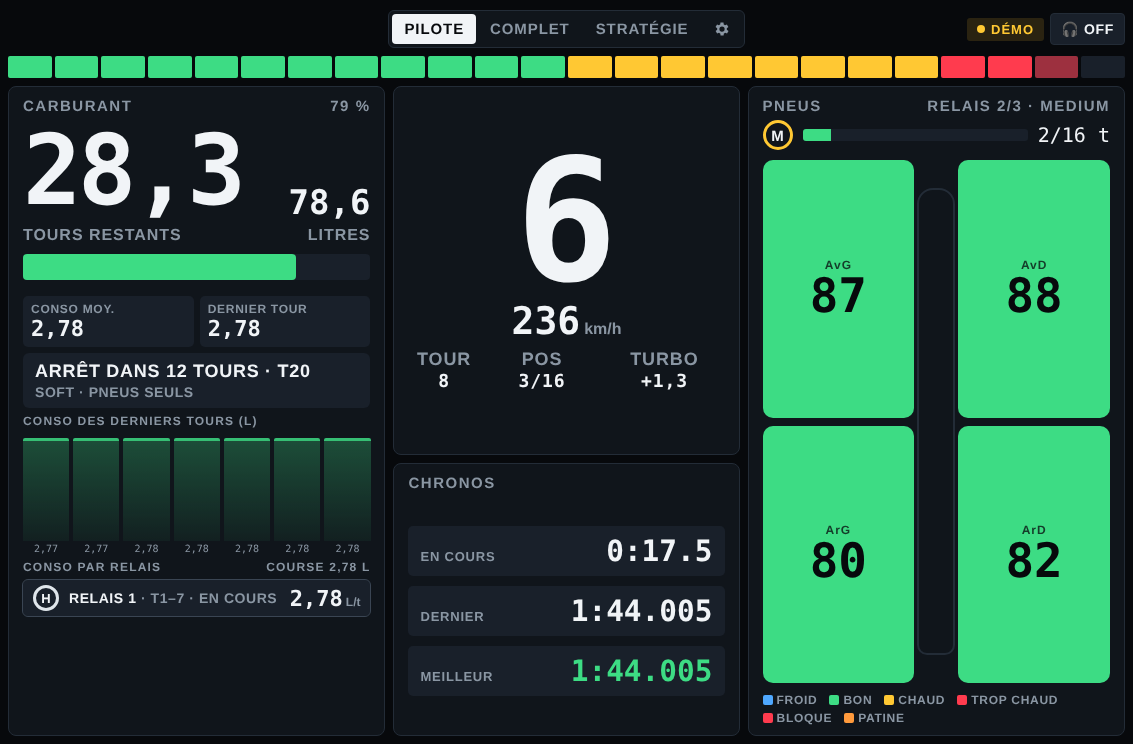
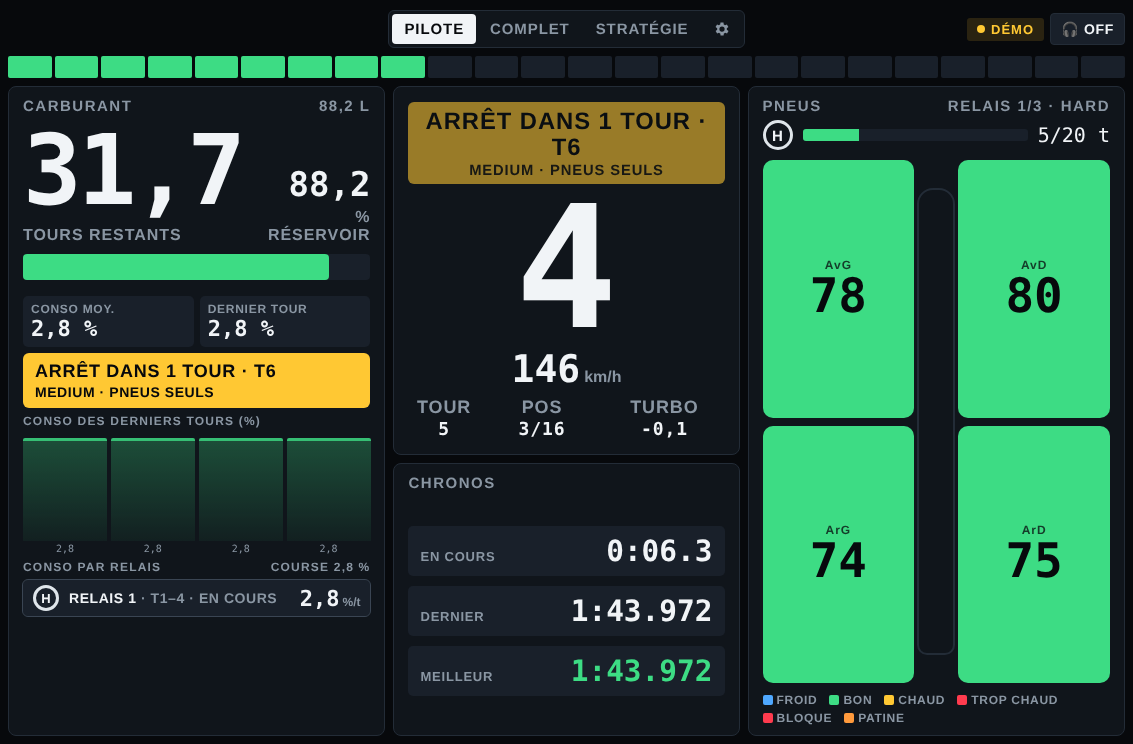
Carburant affiché en % du réservoir, à 1 décimale (Pilote, Complet, voix)
Claude-Session: https://claude.ai/code/session_01BTEhDGdTr51o2wPCPodFJh

diff --git a/race-engineer/web/pilote.html b/race-engineer/web/pilote.html
@@ -209,7 +209,7 @@ nav.tabs3 a:focus-visible{outline:2px solid var(--accent);outline-offset:1px}
     <div class="lbl"><span>Carburant</span><span id="fuelPct">–</span></div>
     <div class="fuelTop">
       <div><div class="big" id="fuelLaps">–</div><div class="unit">tours restants</div></div>
-      <div class="liters"><b id="fuelL">–</b><span class="unit">litres</span></div>
+      <div class="liters"><b id="fuelL">–</b><span class="unit">% réservoir</span></div>
     </div>
     <div class="gauge" id="gauge"><i id="gaugeFill" style="width:0"></i></div>
     <div class="kv">
@@ -217,7 +217,7 @@ nav.tabs3 a:focus-visible{outline:2px solid var(--accent);outline-offset:1px}
       <div><small>Dernier tour</small><b id="consLast">–</b></div>
     </div>
     <div class="stop" id="stop"><span id="stopTitle">Pas de plan</span><small id="stopText">Choisis un plan dans Stratégie</small></div>
-    <div class="lbl histLbl" style="font-size:12px"><span>Conso des derniers tours (L)</span></div>
+    <div class="lbl histLbl" style="font-size:12px"><span>Conso des derniers tours (%)</span></div>
     <div class="hist" id="hist"></div>
     <div class="lbl" style="font-size:12px"><span>Conso par relais</span><span id="raceAvg"></span></div>
     <div class="relays" id="relays"><div><span class="chip X">–</span><span class="who">Après le 1er tour</span><b>–</b></div></div>
@@ -314,6 +314,8 @@ function sayLap(ms){const m=Math.floor(ms/60000),s=Math.floor(ms%60000/1000),d=M
 $("voiceBtn").addEventListener("click",()=>{voiceOn=!voiceOn;$("voiceBtn").classList.toggle("on",voiceOn);$("voiceBtn").setAttribute("aria-pressed",voiceOn);
   $("voiceBtn").textContent=voiceOn?"🎧 On":"🎧 Off";if(voiceOn)say("Radio check. Je suis avec toi.")});
 let fuelShort=null;
+// carburant affiché en % du réservoir, à 1 décimale (1 % = 1 L avec un réservoir de 100 L)
+let FK=1;const P1=x=>fin(x)?f1(x*FK):"–";
 function engineer(laps,live,lapsLeft,nx){
   // premier contact : message de liaison, sans relire les tours déjà faits
   if(lastSpokenLap===null){lastSpokenLap=laps.length?laps[laps.length-1].n:0;
@@ -322,11 +324,11 @@ function engineer(laps,live,lapsLeft,nx){
   const O=opts(),best=Math.min(...laps.filter(l=>l.ms>0).map(l=>l.ms));
   let t=O.voiceLapTime?`Tour ${last.n}, ${sayLap(last.ms)}.`:"",alert=false;
   if(O.voiceBest&&last.ms===best&&laps.length>1)t+=" Meilleur tour, bravo.";
-  if(nx&&!nx.done&&nx.inLaps===0){t+=` Box box, ce tour-ci. ${CN[nx.g]}${addL(nx)>0?`, ${addL(nx)} litres`:", pneus seuls"}.`;alert=true}
+  if(nx&&!nx.done&&nx.inLaps===0){t+=` Box box, ce tour-ci. ${CN[nx.g]}${addL(nx)>0?`, ${Math.round(addL(nx)*FK)} pour cent`:", pneus seuls"}.`;alert=true}
   else if(nx&&!nx.done&&O.warnLaps>0&&nx.inLaps<=O.warnLaps){t+=` Arrêt dans ${nx.inLaps} tour${nx.inLaps>1?"s":""}. On passe en ${CN[nx.g]}.`;alert=true}
   if(fuelShort&&fin(lapsLeft)&&Math.floor(lapsLeft)>1){const n=Math.floor(lapsLeft);
     t+=fuelShort.toStop?` Attention, essence pour ${n} tours seulement, l'arrêt prévu est trop loin. Rentre plus tôt ou économise.`
-      :` Attention, il manque ${fuelShort.miss} litres pour finir. Économise ou ravitaille.`;alert=true}
+      :` Attention, il manque ${Math.round(fuelShort.miss*FK)} pour cent pour finir. Économise ou ravitaille.`;alert=true}
   if(fin(lapsLeft)&&!alert){const n=Math.floor(lapsLeft);
     if(n<=1&&O.fuelSafety)t+=" Carburant critique, rentre au stand ce tour-ci.";
     else if(!nx&&n<O.fuelWarn)t+=` Carburant pour ${n} tours. Prépare l'arrêt.`;
@@ -350,7 +352,7 @@ function liveAdd(nx,L,cons){const p=readPlan(),row=p&&p.rows&&p.rows[nx.n];
   const need=laps*cons-atStop;return need>0?Math.round(Math.min(need,cap-Math.max(0,atStop))):0}
 // litres à annoncer : le calcul en direct, sinon le plan (arrondi au litre le plus proche)
 function addL(nx){if(fin(nx.live))return nx.live;const st=nx.stop||{};return st.full?Math.round(st.add):0}
-function stopTxt(nx){const a=addL(nx);return`${CN[nx.g]||nx.g} · ${a>0?"+"+a+" L":"pneus seuls"}`}
+function stopTxt(nx){const a=addL(nx);return`${CN[nx.g]||nx.g} · ${a>0?"+"+Math.round(a*FK)+" %":"pneus seuls"}`}
 
 
 /* ---- relais en cours d'après le plan de la stratégie ---- */
@@ -371,14 +373,15 @@ function render(s){
   $("rpm").classList.toggle("flash",L.rpm>=hi||!!L.rev_limit);
 
   // carburant
+  FK=L.fuel_cap>0?100/L.fuel_cap:1;
   const cons=avgFuel(laps,O.consAvg),left=cons>0?L.fuel/cons:NaN,pct=L.fuel_cap>0?L.fuel/L.fuel_cap*100:NaN;
   $("fuelLaps").textContent=fin(left)?f1(left):"–";
   $("fuelLaps").className="big"+(fin(left)&&left<=O.fuelCrit?" bad":fin(left)&&left<=O.fuelWarn?" wrn":"");
-  $("fuelL").textContent=f1(L.fuel);$("fuelPct").textContent=fin(pct)?Math.round(pct)+" %":"–";
+  $("fuelL").textContent=P1(L.fuel);$("fuelPct").textContent=fin(L.fuel)?f1(L.fuel)+" L":"–";
   $("gaugeFill").style.width=(fin(pct)?Math.max(0,Math.min(100,pct)):0)+"%";
   $("gaugeFill").style.background=fin(left)&&left<=O.fuelCrit?"var(--accent)":fin(left)&&left<=O.fuelWarn?"var(--warn)":"var(--ok)";
-  $("cons").textContent=fin(cons)?f2(cons):"–";
-  const lc=cleanLaps(laps).slice(-1)[0];$("consLast").textContent=lc?f2(lc.fuel):"–";
+  $("cons").textContent=fin(cons)?P1(cons)+" %":"–";
+  const lc=cleanLaps(laps).slice(-1)[0];$("consLast").textContent=lc?P1(lc.fuel)+" %":"–";
   // prochain arrêt prévu
   const nx=nextStop(L.lap),stop=$("stop");if(nx&&!nx.done)nx.live=liveAdd(nx,L,cons);
   // essence courte : ne tiendra pas jusqu'à l'arrêt prévu (ou jusqu'à l'arrivée au dernier relais)
@@ -390,7 +393,7 @@ function render(s){
     if(nx.inLaps===0){stop.className="stop crit";$("stopTitle").textContent="Box box · ce tour-ci";$("stopText").textContent=txt}
     else if(fuelShort){stop.className="stop crit";$("stopTitle").textContent=`Essence courte · ${f1(left)} tours`;$("stopText").textContent=`Arrêt prévu T${nx.endLap} : rentre plus tôt ou économise · ${txt}`}
     else{stop.className="stop"+(O.warnLaps>0&&nx.inLaps<=O.warnLaps?" warn":"");$("stopTitle").textContent=`Arrêt dans ${nx.inLaps} tour${nx.inLaps>1?"s":""} · T${nx.endLap}`;$("stopText").textContent=txt}}
-  else if(fuelShort){stop.className="stop warn";$("stopTitle").textContent=`Essence courte pour finir · ${f1(left)} tours`;$("stopText").textContent=`Il manque ${fuelShort.miss} L : économise ou ravitaille`}
+  else if(fuelShort){stop.className="stop warn";$("stopTitle").textContent=`Essence courte pour finir · ${f1(left)} tours`;$("stopText").textContent=`Il manque ${Math.round(fuelShort.miss*FK)} % : économise ou ravitaille`}
   else{stop.className="stop";$("stopTitle").textContent=nx&&nx.done?"Dernier relais":"Pas de plan";$("stopText").textContent=nx&&nx.done?"Plus d'arrêt prévu":"Choisis un plan dans Stratégie"}
   // la même alerte, en gros et clignotante au-dessus du rapport engagé
   {const lvl=stop.classList.contains("crit")?"crit":stop.classList.contains("warn")?"warn":"",pa=$("pitAlert");
@@ -401,7 +404,7 @@ function render(s){
   if(hl.length!==render._hl||(hl.length&&hl[hl.length-1].n!==render._hn)){render._hl=hl.length;render._hn=hl.length?hl[hl.length-1].n:null;
     const mx=Math.max(...hl.map(l=>l.fuel),0.1),mn=Math.min(...hl.map(l=>l.fuel),mx);
     $("hist").innerHTML=hl.map(l=>{const h=20+80*((l.fuel-mn*0.9)/(mx-mn*0.9||1));const c=fin(cons)&&l.fuel>cons*1.03?"#ffc833":fin(cons)&&l.fuel<cons*0.97?"#4fa8ff":"#3ddc84";
-      return`<div><i style="height:${Math.max(8,Math.min(100,h))}%;border-top-color:${c};background:linear-gradient(${c}55,${c}11)"></i><span>${f2(l.fuel)}</span></div>`}).join("")}
+      return`<div><i style="height:${Math.max(8,Math.min(100,h))}%;border-top-color:${c};background:linear-gradient(${c}55,${c}11)"></i><span>${P1(l.fuel)}</span></div>`}).join("")}
   // conso moyenne de chaque relais (un relais se termine au tour où tu passes au stand)
   const rlKey=laps.length+":"+(laps.length?laps[laps.length-1].n:"")+":"+(localStorage.getItem("gt7-plan")||"");
   if(rlKey!==render._rl){render._rl=rlKey;
@@ -409,9 +412,9 @@ function render(s){
     laps.forEach(l=>{if(!cur){cur={from:l.n,to:l.n,f:[]};st.push(cur)}cur.to=l.n;
       if(!l.pit&&fin(l.fuel)&&l.fuel>0.05)cur.f.push(l.fuel);if(l.pit)cur=null});
     const plan=readPlan(),rows=plan&&plan.rows||[];
-    const all=st.flatMap(r=>r.f);$("raceAvg").textContent=all.length?"course "+f2(all.reduce((a,b)=>a+b,0)/all.length)+" L":"";
+    const all=st.flatMap(r=>r.f);$("raceAvg").textContent=all.length?"course "+P1(all.reduce((a,b)=>a+b,0)/all.length)+" %":"";
     if(st.length){$("relays").innerHTML=st.map((r,i)=>{const pr=rows.find(x=>r.from>=x.from&&r.from<=x.to),g=pr?pr.g:"",avg=r.f.length?r.f.reduce((a,b)=>a+b,0)/r.f.length:NaN,live=i===st.length-1&&cur;
-      return`<div class="${live?"now":""}"><span class="chip ${g||"X"}">${g||"?"}</span><span class="who"><em>Relais ${i+1}</em> · T${r.from}–${r.to}${live?" · en cours":""}</span><b>${fin(avg)?f2(avg):"–"}<small>L/t</small></b></div>`}).slice(-4).join("")}}
+      return`<div class="${live?"now":""}"><span class="chip ${g||"X"}">${g||"?"}</span><span class="who"><em>Relais ${i+1}</em> · T${r.from}–${r.to}${live?" · en cours":""}</span><b>${fin(avg)?P1(avg):"–"}<small>%/t</small></b></div>`}).slice(-4).join("")}}
 
   // centre
   $("gear").textContent=L.gear===0?"R":L.gear>=15?"N":L.gear;

diff --git a/race-engineer/web/index.html b/race-engineer/web/index.html
@@ -196,7 +196,7 @@ header .tools,header .hdr-right{grid-area:tools;justify-self:end}
   <section class="card c4">
     <p class="lbl"><span>Carburant</span><span id="fuelPct">–</span></p>
     <div class="row"><div><div class="fuel-laps" id="fuelLaps">–</div><div class="sm">tours restants</div></div>
-      <div style="text-align:right"><div class="mid" id="fuelL">–</div><div class="sm">L</div></div></div>
+      <div style="text-align:right"><div class="mid" id="fuelL">–</div><div class="sm">% réservoir</div></div></div>
     <div class="gauge" id="gauge"><i id="gaugeFill" style="width:0"></i></div>
     <div class="kv">
       <div><small>Conso / tour</small><b id="cons">–</b></div>
@@ -330,6 +330,8 @@ function engineer(laps,live,lapsLeft){
 /* ---- plan de la stratégie (enregistré par l'onglet Stratégie sur cet appareil) ---- */
 function readPlan(){try{return JSON.parse(localStorage.getItem("gt7-plan")||"null")}catch(e){return null}}
 // tour jusqu'auquel le carburant doit tenir : course au nombre de tours, sinon prochain arrêt ou fin du plan
+// carburant affiché en % du réservoir, à 1 décimale (1 % = 1 L avec un réservoir de 100 L)
+let FK=1;const P1=x=>fin(x)?f1(x*FK):"–";
 function fuelTarget(L){
   if(L.total_laps>0)return{endLap:L.total_laps,label:"Pour finir"};
   const p=readPlan();if(!p||!p.rows||!p.rows.length||!fin(L.lap))return null;
@@ -357,14 +359,14 @@ function render(s){
   $("speed").textContent=Math.round(L.speed)+" km/h";
   // carburant
   const O=opts(),cons=avgFuel(laps,O.consAvg),pct=L.fuel_cap>0?L.fuel/L.fuel_cap*100:NaN,left=cons>0?L.fuel/cons:NaN;
-  $("fuelL").textContent=f1(L.fuel);$("fuelPct").textContent=fin(pct)?Math.round(pct)+" %":"–";
+  FK=L.fuel_cap>0?100/L.fuel_cap:1;$("fuelL").textContent=P1(L.fuel);$("fuelPct").textContent=fin(L.fuel)?f1(L.fuel)+" L":"–";
   $("fuelLaps").textContent=fin(left)?f1(left):"–";$("fuelLaps").className="fuel-laps"+(fin(left)&&left<=O.fuelCrit?" neg":fin(left)&&left<=O.fuelWarn?" wrn":"");
   $("gaugeFill").style.width=(fin(pct)?Math.max(0,Math.min(100,pct)):0)+"%";$("gauge").className="gauge"+(fin(left)&&left<=O.fuelCrit?" crit":fin(left)&&left<=O.fuelWarn?" low":"");
-  $("cons").textContent=fin(cons)?f2(cons)+" L":"–";
-  const lastClean=cleanLaps(laps).slice(-1)[0];$("consLast").textContent=lastClean?f2(lastClean.fuel)+" L":"–";
+  $("cons").textContent=fin(cons)?P1(cons)+" %":"–";
+  const lastClean=cleanLaps(laps).slice(-1)[0];$("consLast").textContent=lastClean?P1(lastClean.fuel)+" %":"–";
   // carburant manquant : jusqu'à l'arrêt prévu par la stratégie, ou jusqu'à l'arrivée
   const tgt=fuelTarget(L);$("toFinishLbl").textContent=tgt?tgt.label:"Pour finir";
-  if(tgt&&fin(cons)){const need=(tgt.endLap-L.lap+1)*cons-L.fuel;$("toFinish").textContent=need>0?"+"+f1(need)+" L":"OK";$("toFinish").className=need>0?"wrn":"pos"}
+  if(tgt&&fin(cons)){const need=(tgt.endLap-L.lap+1)*cons-L.fuel;$("toFinish").textContent=need>0?"+"+P1(need)+" %":"OK";$("toFinish").className=need>0?"wrn":"pos"}
   else{$("toFinish").textContent="–";$("toFinish").className=""}
   // pneus
   (L.tyres||[]).forEach((t,i)=>{const el=$("t"+i);el.style.background=tyreColor(t);el.querySelector("span").textContent=fin(t)?Math.round(t):"–"});
@@ -382,7 +384,7 @@ function render(s){
   // historique (redessiné seulement quand un tour se termine)
   if(laps.length!==lastLapsLen){lastLapsLen=laps.length;
     const best=Math.min(...laps.filter(l=>l.ms>0).map(l=>l.ms));
-    $("hist").innerHTML=laps.slice().reverse().map(l=>`<tr class="${l.pit?"pit":l.ms===best?"best":""}"><td>${l.n}${l.pit?" · stand":""}</td><td>${lapFmt(l.ms)}</td><td>${l.ms===best?"meilleur":sgnS(l.ms-best)}</td><td>${fin(l.fuel)?f2(l.fuel)+" L":"–"}</td><td>${f1(l.fuel_end)} L</td></tr>`).join("");
+    $("hist").innerHTML=laps.slice().reverse().map(l=>`<tr class="${l.pit?"pit":l.ms===best?"best":""}"><td>${l.n}${l.pit?" · stand":""}</td><td>${lapFmt(l.ms)}</td><td>${l.ms===best?"meilleur":sgnS(l.ms-best)}</td><td>${fin(l.fuel)?P1(l.fuel)+" %":"–"}</td><td>${P1(l.fuel_end)} %</td></tr>`).join("");
     $("lapCount").textContent=laps.length?laps.length+(laps.length>1?" tours":" tour"):"";
     updateSendInfo(laps);
   }
